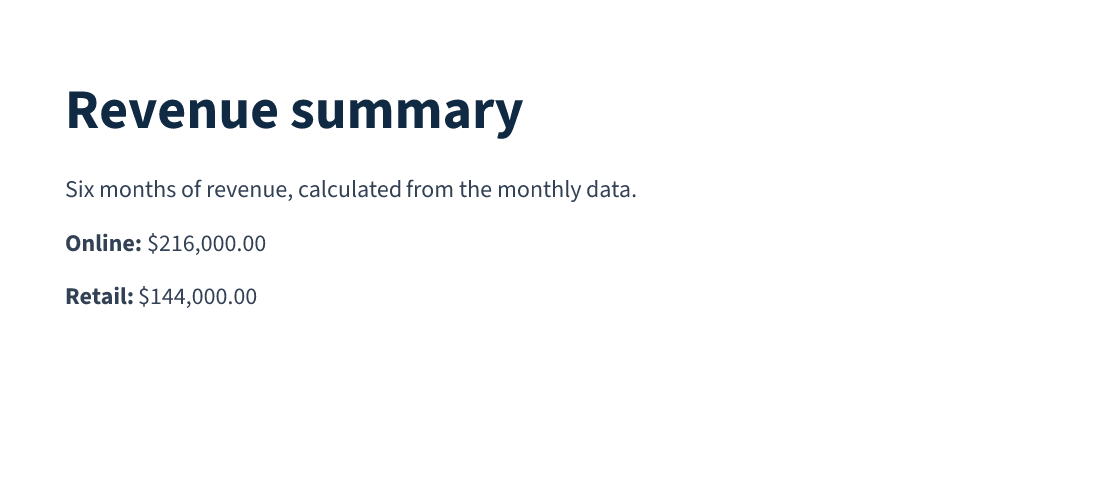
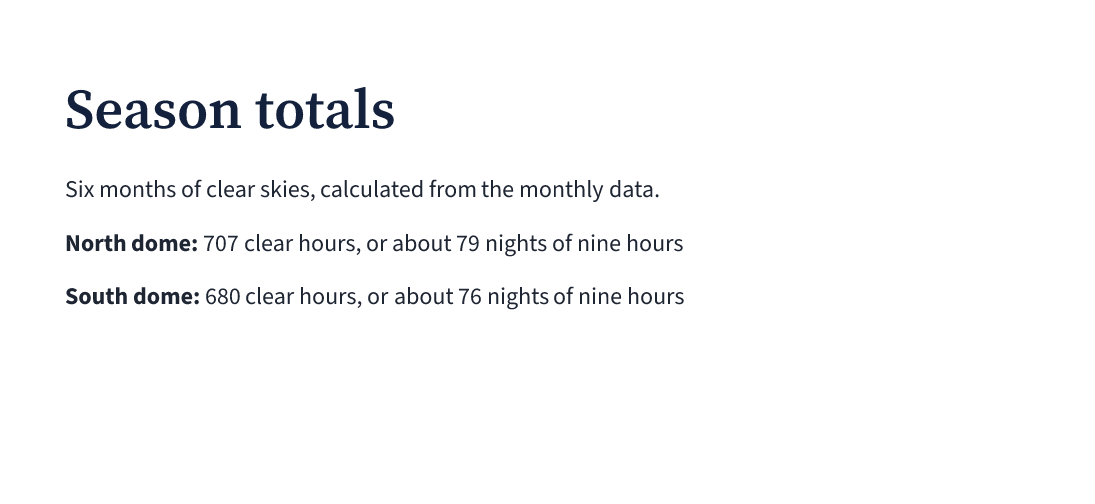
- carry the observatory theme through the tutorial examples and shorten the download links

diff --git a/README.md b/README.md
@@ -56,8 +56,8 @@ with their data in an embedded workbook.
 ![Native preview of a one-page research note titled "A temperate sub-Neptune transiting the nearby M dwarf MTS-0412", with a transit light curve, a two-column body, a candidates table and a radius histogram.](readme/images/report-1.png)
 
 [Source](readme/examples/report.mote) ·
-[Word download](readme/downloads/report.docx) ·
-[PDF download](readme/downloads/report.pdf)
+[Word](readme/downloads/report.docx) ·
+[PDF](readme/downloads/report.pdf)
 
 ## Deck
 
@@ -75,8 +75,8 @@ format, not converted from the note.
 </p>
 
 [Source](readme/examples/deck.mote) ·
-[PowerPoint download](readme/downloads/deck.pptx) ·
-[PDF download](readme/downloads/deck.pdf)
+[PowerPoint](readme/downloads/deck.pptx) ·
+[PDF](readme/downloads/deck.pdf)
 
 The sections that follow introduce the language step by step, from plain
 Markdown to these finished pieces.
@@ -86,22 +86,22 @@ Markdown to these finished pieces.
 Headings, emphasis, lists and tables require no Mote directives:
 
 ```markdown
-# Quarterly brief
+# Observing run summary
 
-Revenue grew by **18%**, with steady progress across both teams.
+The southern array recorded **118 clear nights**, with nine transits of MTS-0412 b.
 
-- Launch the customer research programme.
-- Expand the self-service onboarding guide.
+- Schedule radial-velocity follow-up for spring 2027.
+- Extend monitoring to the shallower 4.07-day signal.
 
-| Team | Focus | Status |
+| Target | Period | Status |
 | :--- | :--- | :--- |
-| Product | Customer research | In progress |
-| Operations | Self-service onboarding | Ready |
+| MTS-0412 b | 11.82 days | Candidate |
+| MTS-1187 b | 3.51 days | Confirmed |
 ```
 
-[Markdown source](readme/examples/plain.md) ·
-[Word download](readme/downloads/plain.docx) ·
-[PowerPoint download](readme/downloads/plain.pptx) ·
+[Source](readme/examples/plain.md) ·
+[Word](readme/downloads/plain.docx) ·
+[PowerPoint](readme/downloads/plain.pptx) ·
 [Document preview](readme/images/plain-1.png) ·
 [Slide preview](readme/images/plain-slides-1.png)
 
@@ -118,16 +118,16 @@ follow, including those created by Markdown. The helpers `pt(...)` and
 styles level-one headings, and `extends` inherits from another style.
 
 ```mote
-#style "Normal" (run = {font = "Source Sans 3", size = pt(12), color = "#334155"})
+#style "Normal" (run = {font = "Source Sans 3", size = pt(12), color = "#1f2633"})
 #style "Heading1" extends "Normal" (
-  run = {size = pt(28), bold = true, color = "#102a43"},
+  run = {font = "Source Serif 4", size = pt(28), bold = true, color = "#14213d"},
   paragraph = {spacing = {before = pt(0), after = pt(12)}}
 )
 #set paragraph(spacing = {after = pt(10)})
 #set table(
   width = inch(6.7),
-  cell = {margin = {vertical = pt(7), horizontal = pt(10)}, fill = "#f0f7f7"},
-  borders = {all = {style = "none"}, inside_h = {width = pt(0.5), color = "#c4dcdb"}}
+  cell = {margin = {vertical = pt(7), horizontal = pt(10)}, fill = "#f1f3f8"},
+  borders = {all = {style = "none"}, inside_h = {width = pt(0.5), color = "#d5dbe8"}}
 )
 ```
 
@@ -139,9 +139,9 @@ special command-line option is required.
 
 ![Native document preview of the unchanged Markdown with typography and table defaults.](readme/images/defaults-1.png)
 
-[Defaults source](readme/examples/defaults.mote) ·
+[Source](readme/examples/defaults.mote) ·
 [Unchanged Markdown](readme/examples/plain.md) ·
-[Word download](readme/downloads/defaults.docx)
+[Word](readme/downloads/defaults.docx)
 
 ## Directives
 
@@ -152,29 +152,29 @@ formatting; the heading, list and table remain Markdown. The source imports the
 defaults from the previous example.
 
 ```mote
-#style "Lead" extends "Normal" (run = {size = pt(17), color = "#0f766e"})
+#style "Lead" extends "Normal" (run = {font = "Source Serif 4", size = pt(17), italic = true, color = "#c2581d"})
 
-# Quarterly brief
+# Observing run summary
 
-#paragraph "Lead"[A strong quarter. A focused next step.]
+#paragraph "Lead"[One clear signal. A planet worth weighing.]
 #paragraph[
-  Revenue grew by #span(bold = true, color = "#0f766e")[18%],
-  with steady progress across both teams.
+  The southern array recorded #span(bold = true, color = "#c2581d")[118 clear nights],
+  with nine transits of MTS-0412 b.
 ]
 
-- Launch the customer research programme.
-- Expand the self-service onboarding guide.
+- Schedule radial-velocity follow-up for spring 2027.
+- Extend monitoring to the shallower 4.07-day signal.
 
-| Team | Focus | Status |
+| Target | Period | Status |
 | :--- | :--- | :--- |
-| Product | Customer research | In progress |
-| Operations | Self-service onboarding | Ready |
+| MTS-0412 b | 11.82 days | Candidate |
+| MTS-1187 b | 3.51 days | Confirmed |
 ```
 
-![Native document preview with a teal introduction and emphasized revenue figure.](readme/images/directives-1.png)
+![Native document preview with an orange italic introduction and an emphasized count of clear nights.](readme/images/directives-1.png)
 
-[Complete source](readme/examples/directives.mote) ·
-[Word download](readme/downloads/directives.docx)
+[Source](readme/examples/directives.mote) ·
+[Word](readme/downloads/directives.docx)
 
 A span repeated with the same attributes is better served by a character style,
 declared with `type = "character"` and applied by name. The research note
@@ -240,22 +240,22 @@ A slide may also use a named layout, such as the built-in `two_column`, in which
 each `box(slot = ...)` fills one named region; a custom layout may inherit from
 an existing one.
 
-[Complete deck source](readme/examples/deck.mote) ·
-[PowerPoint download](readme/downloads/deck.pptx)
+[Source](readme/examples/deck.mote) ·
+[PowerPoint](readme/downloads/deck.pptx)
 
 ## Charts
 
 The `json(...)` helper loads data relative to the source file, and `let` gives
 the data a name. Static evaluation suffices; no scripting is required. The file
-[revenue.json](readme/examples/revenue.json) contains monthly values in
-thousands:
+[observing.json](readme/examples/observing.json) contains the clear hours of each
+month at two telescopes:
 
 ```json
 {
-  "categories": ["Jan", "Feb", "Mar", "Apr", "May", "Jun"],
+  "categories": ["Mar", "Apr", "May", "Jun", "Jul", "Aug"],
   "series": [
-    {"name": "Online", "values": [24, 30, 32, 36, 44, 50]},
-    {"name": "Retail", "values": [18, 20, 22, 24, 28, 32]}
+    {"name": "North dome", "values": [98, 82, 118, 136, 142, 131]},
+    {"name": "South dome", "values": [88, 101, 110, 124, 134, 123]}
   ]
 }
 ```
@@ -263,25 +263,25 @@ thousands:
 The chart receives the data together with its size, colors and labels:
 
 ```mote
-#let(revenue = json("revenue.json"))
+#let(observing = json("observing.json"))
 
-# Half-year revenue
+# Clear skies
 
-Monthly revenue, in thousands.
+Clear hours per month at each telescope of the southern array.
 
 #chart(
-  kind = "column", data = revenue,
+  kind = "column", data = observing,
   width = inch(6.7), height = inch(3.1),
-  colors = {"#16877b", "#6b8ce3"}, legend = "bottom",
+  colors = {"#14213d", "#c2581d"}, legend = "bottom",
   data_labels = {value = true, position = "outside_end"},
-  gridlines = {major = true, color = "#dfe7ed"}
+  gridlines = {major = true, color = "#e4e8f0"}
 )
 ```
 
-![Native document chart preview showing monthly online and retail revenue.](readme/images/chart-1.png)
+![Native document chart preview showing monthly clear hours at the north and south domes.](readme/images/chart-1.png)
 
-[Complete chart source](readme/examples/chart.mote) ·
-[Word download](readme/downloads/chart.docx)
+[Source](readme/examples/chart.mote) ·
+[Word](readme/downloads/chart.docx)
 
 The Word download contains an editable chart and its embedded workbook. The
 supported kinds are column, bar, line, area, pie and doughnut charts, with
@@ -291,33 +291,34 @@ stacked variants, axes, legends and data labels.
 
 Lua is optional and must be enabled with `--lua`. A `#function ... end`
 definition contains Lua statements and returns a value or document content. In
-the example, a function sums the monthly values of each channel and converts
-thousands to dollars. The Mote `#for` loop repeats a paragraph for each channel,
-and `format_money(...)` formats the result.
+the example, a function sums the monthly clear hours at each telescope and
+converts them to observing nights. The Mote `#for` loop repeats a paragraph for
+each telescope.
 
 ```mote
-#let(revenue = json("revenue.json"))
-#function channel_total(values)
+#let(observing = json("observing.json"))
+#function season_summary(hours)
   local total = 0
-  for index, amount in ipairs(values) do
+  for index, amount in ipairs(hours) do
     total = total + amount
   end
-  return total * 1000
+  local nights = (total + 4 - (total + 4) % 9) / 9
+  return total .. " clear hours, or about " .. nights .. " nights of nine hours"
 end
 
-# Revenue summary
+# Season totals
 
-Six months of revenue, calculated from the monthly data.
+Six months of clear skies, calculated from the monthly data.
 
-#for channel in revenue.series {
-  #paragraph[#strong[#channel.name:] #format_money(channel_total(channel.values))]
+#for telescope in observing.series {
+  #paragraph[#strong[#telescope.name:] #season_summary(telescope.values)]
 }
 ```
 
-![Native document preview showing calculated online revenue of 216000 dollars and retail revenue of 144000 dollars.](readme/images/lua-1.png)
+![Native document preview showing 707 clear hours, about 79 nights, at the north dome and 680 clear hours, about 76 nights, at the south dome.](readme/images/lua-1.png)
 
-[Complete source](readme/examples/lua.mote) ·
-[Word download](readme/downloads/lua.docx)
+[Source](readme/examples/lua.mote) ·
+[Word](readme/downloads/lua.docx)
 
 ## CLI
 

diff --git a/readme/examples/README.md b/readme/examples/README.md
@@ -2,7 +2,7 @@
 
 The [main README](../../README.md) presents these examples. The editable and PDF
 downloads are in [readme/downloads](../downloads/README.md). The
-survey, the planets, the business content and all figures are illustrative.
+survey, the observatory, the planets and all figures are illustrative.
 
 | Example | Source | Composition |
 | --- | --- | --- |
@@ -11,8 +11,8 @@ survey, the planets, the business content and all figures are illustrative.
 | Pure Markdown | [plain.md](plain.md) | The exact file is passed to both output formats, without any added declarations. |
 | Defaults | [defaults.mote](defaults.mote) + [plain.md](plain.md) | The defaults are prepended in memory; the original Markdown remains unchanged. |
 | Directives | [directives.mote](directives.mote) | The source imports the defaults and adds a styled introduction and an inline accent. |
-| JSON chart | [chart.mote](chart.mote) + [revenue.json](revenue.json) | Static JSON loading creates an editable chart without scripting. |
-| Lua calculation | [lua.mote](lua.mote) + [revenue.json](revenue.json) | A function sums monthly values and converts thousands to dollars. The example alone requires `--lua`. |
+| JSON chart | [chart.mote](chart.mote) + [observing.json](observing.json) | Static JSON loading creates an editable chart without scripting. |
+| Lua calculation | [lua.mote](lua.mote) + [observing.json](observing.json) | A function sums the monthly clear hours and converts them to observing nights. The example alone requires `--lua`. |
 
 The research note and the deck are written for their own formats rather than converted
 from one another. The pure Markdown example alone is rendered in both formats,

diff --git a/readme/examples/plain.md b/readme/examples/plain.md
@@ -1,11 +1,11 @@
-# Quarterly brief
+# Observing run summary
 
-Revenue grew by **18%**, with steady progress across both teams.
+The southern array recorded **118 clear nights**, with nine transits of MTS-0412 b.
 
-- Launch the customer research programme.
-- Expand the self-service onboarding guide.
+- Schedule radial-velocity follow-up for spring 2027.
+- Extend monitoring to the shallower 4.07-day signal.
 
-| Team | Focus | Status |
+| Target | Period | Status |
 | :--- | :--- | :--- |
-| Product | Customer research | In progress |
-| Operations | Self-service onboarding | Ready |
+| MTS-0412 b | 11.82 days | Candidate |
+| MTS-1187 b | 3.51 days | Confirmed |
